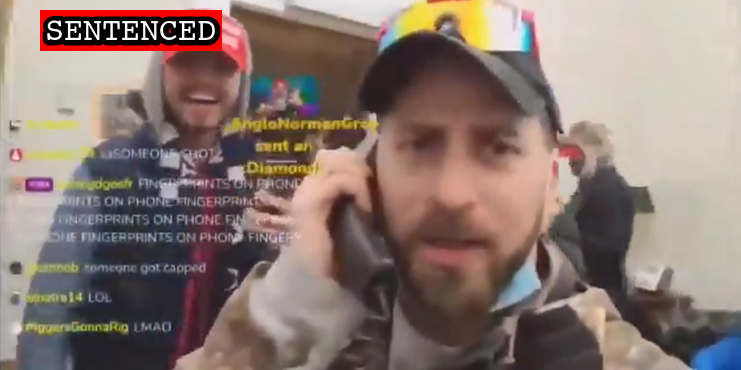
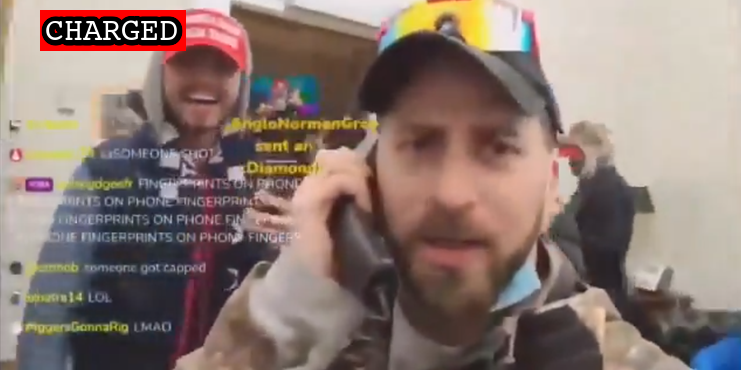
Fixed Baked Alaska

Changed region(s): [[0.0621, 0.0297, 0.3104, 0.1486]]

diff --git a/docs/_suspects/anthime-gionet.md b/docs/_suspects/anthime-gionet.md
@@ -4,16 +4,16 @@ lastName: Gionet
 hashtag: BakedAlaska
 aka: Tom Gionet, Baked Alaska
 residence: Arizona
-status: Sentenced
+status: Charged
 date: 2021-01-16
 charged: 2021-01-16
 indicted:
 convicted:
-sentenced: 2022-01-13
+sentenced:
 dismissed:
 deceased:
 plea_hearing:
-sentencing: 2022-01-13
+sentencing:
 age: 33
 occupation:
 affiliations:
@@ -35,8 +35,6 @@ caseNumber: 1:21-mj-14
 videos:
 charges:
 sentence:
-  - 30 days in prison
-  - $500 restitution
 ---
 
 - [News Report](https://apnews.com/article/joe-biden-donald-trump-capitol-siege-alaska-crime-6666c735165a19a6ee019e412235bd8d)
